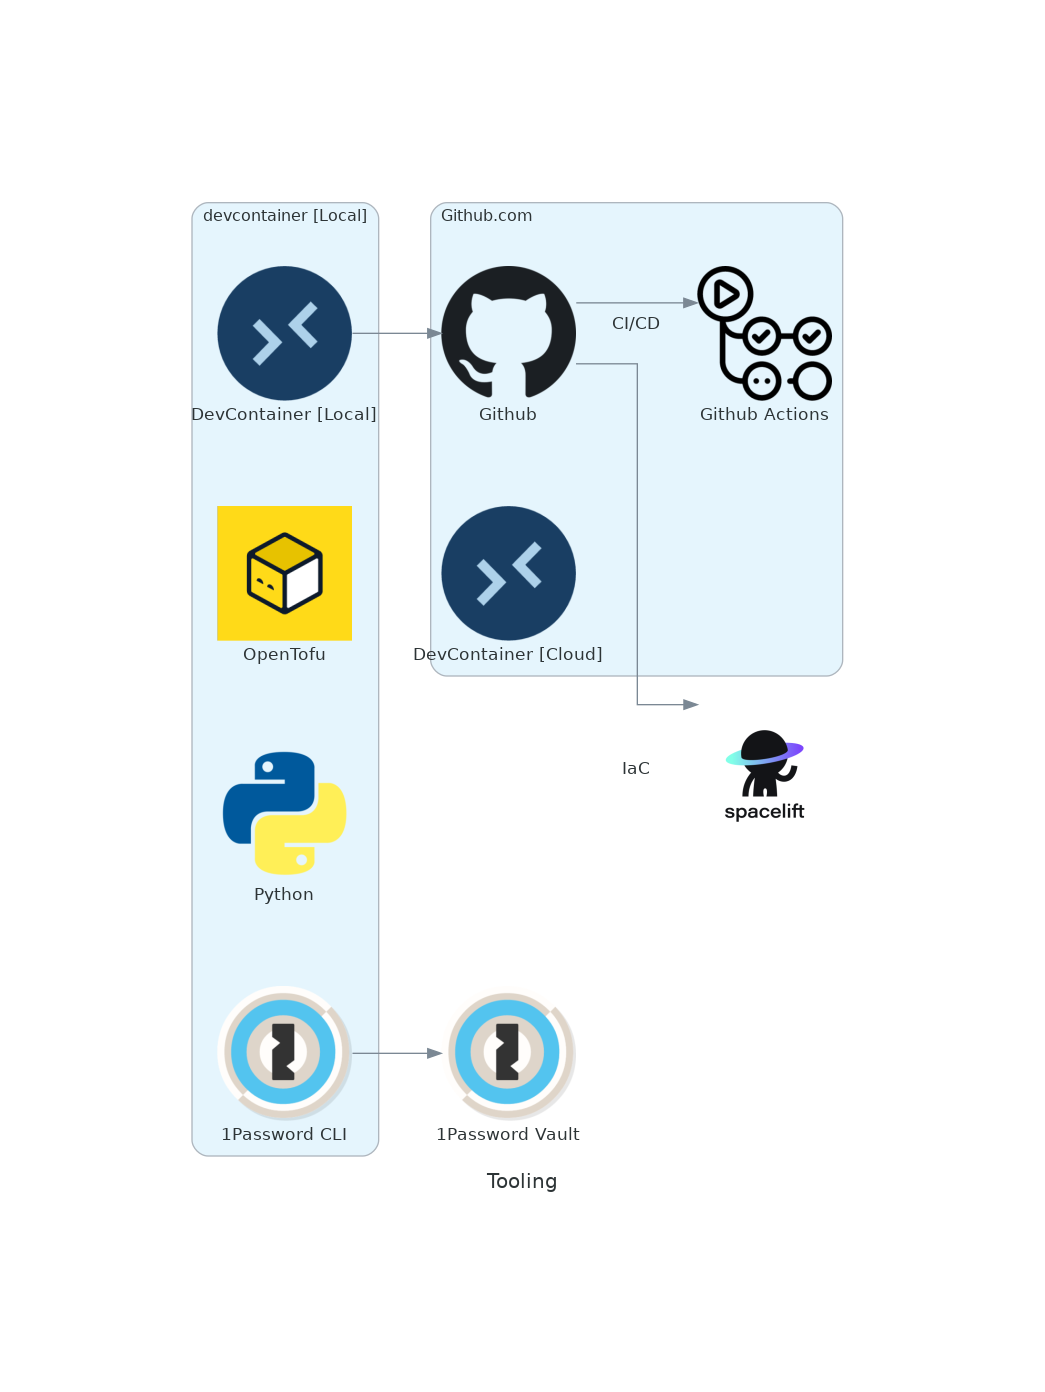
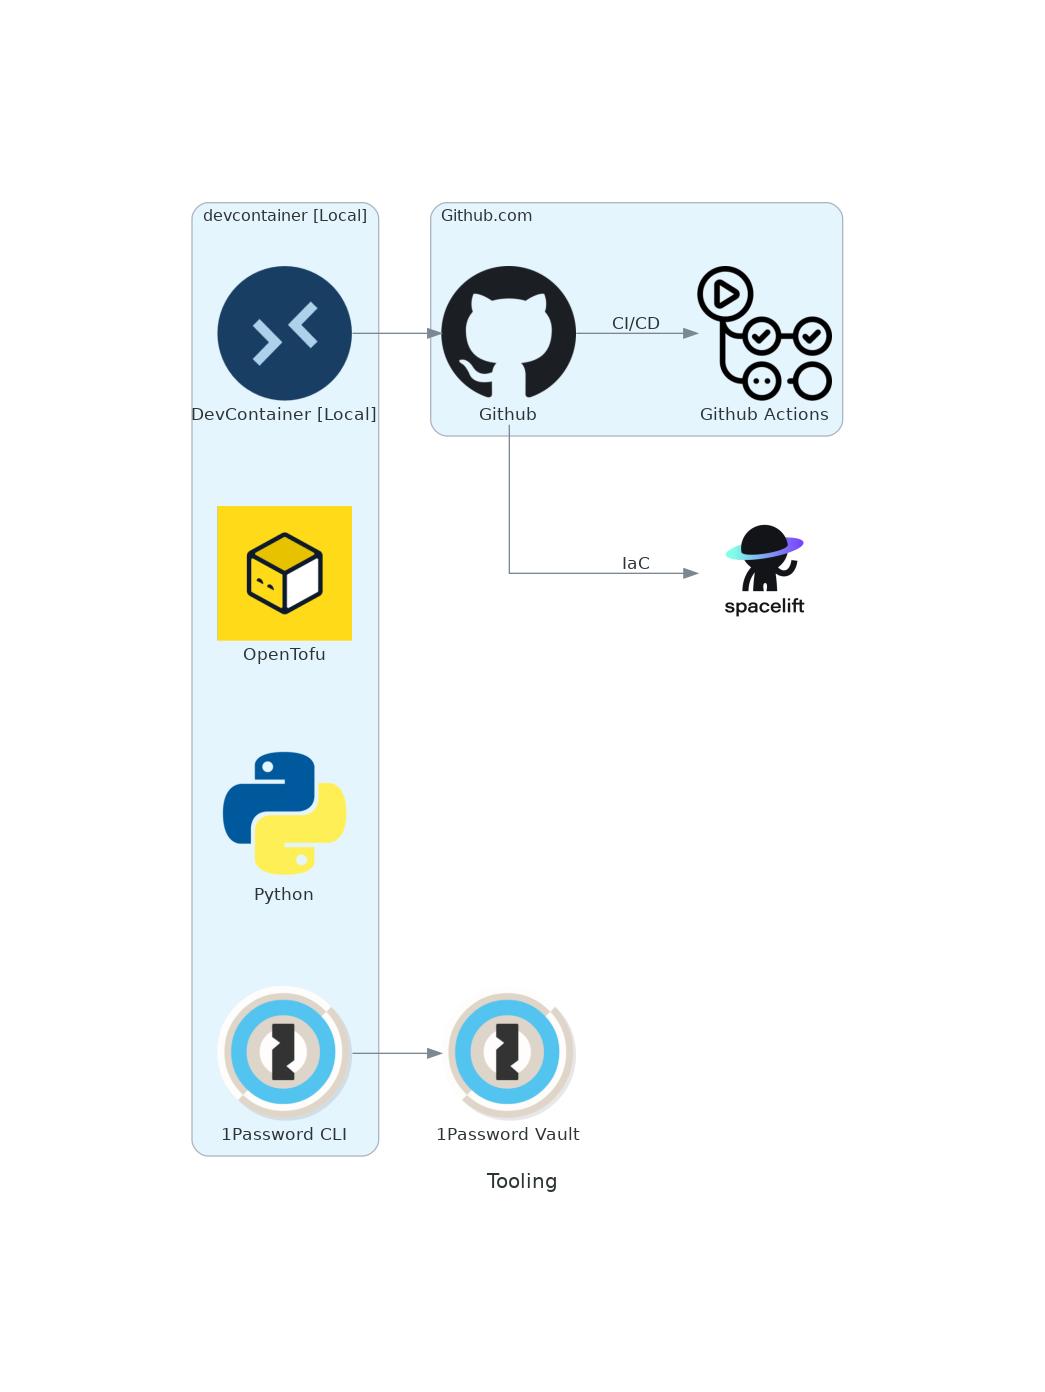
Update diagrams for latest learnings.

Changed region(s): [[0.3981, 0.3089, 0.8268, 0.4943], [0.7043, 0.5251, 0.7656, 0.5869], [0.6431, 0.2162, 0.6737, 0.2471]]

diff --git a/docs/diagrams/infrastructure.py b/docs/diagrams/infrastructure.py
@@ -1,6 +1,7 @@
 from utilities import move_diagram
 
 from diagrams import Cluster, Diagram, Edge
+from diagrams.custom import Custom
 from diagrams.digitalocean.compute import K8SCluster, K8SNodePool
 from diagrams.oci.monitoring import HealthCheck
 from diagrams.oci.network import Firewall, LoadBalancer
@@ -16,6 +17,7 @@ with Diagram(
     cloudflare = Cloudflare("Cloudflare")
     grafana = Grafana("Grafana")
     uptimerobot = HealthCheck("UptimeRobot")
+    tailscale = Custom("Tailscale", "../imgs/tailscale.jpg")
 
     # Groups
     with Cluster("Civo"):
@@ -26,6 +28,10 @@ with Diagram(
             cluster = K8SCluster("lab [k8s cluster]")
             xsmall_nodes = K8SNodePool("Node Pool [xsmall]")
             small_nodes = K8SNodePool("Node Pool [small]")
+
+    with Cluster("Home Network"):
+        unifi_gateway = Custom("Unifi Gateway", "../imgs/ubiquiti.png")
+        tailscale_exit_node = Custom("Tailscale [Exit Node]", "../imgs/tailscale.jpg")
 
     (
         cloudflare
@@ -38,5 +44,13 @@ with Diagram(
 
     cluster >> Edge(label="metrics and logs") >> grafana
     uptimerobot >> Edge(label="synthetic monitoring") >> cloudflare
+
+    (
+        tailscale
+        >> tailscale_exit_node
+        >> Edge(label="IP allowlist for k8s API")
+        >> cluster
+    )
+    unifi_gateway >> cluster
 
 move_diagram(diagram_filename)

diff --git a/docs/diagrams/tooling.py b/docs/diagrams/tooling.py
@@ -21,7 +21,6 @@ with Diagram("Tooling", filename=diagram_filename, outformat=["png"], show=False
     with Cluster("Github.com"):
         github = Github("Github")
         github_actions = Custom("Github Actions", "../imgs/github_actions.png")
-        cloud_dev_container = Custom("DevContainer [Cloud]", "../imgs/devcontainer.png")
 
     dev_container >> github >> Edge(label="CI/CD") >> github_actions
     github >> Edge(label="IaC") >> spacelift
